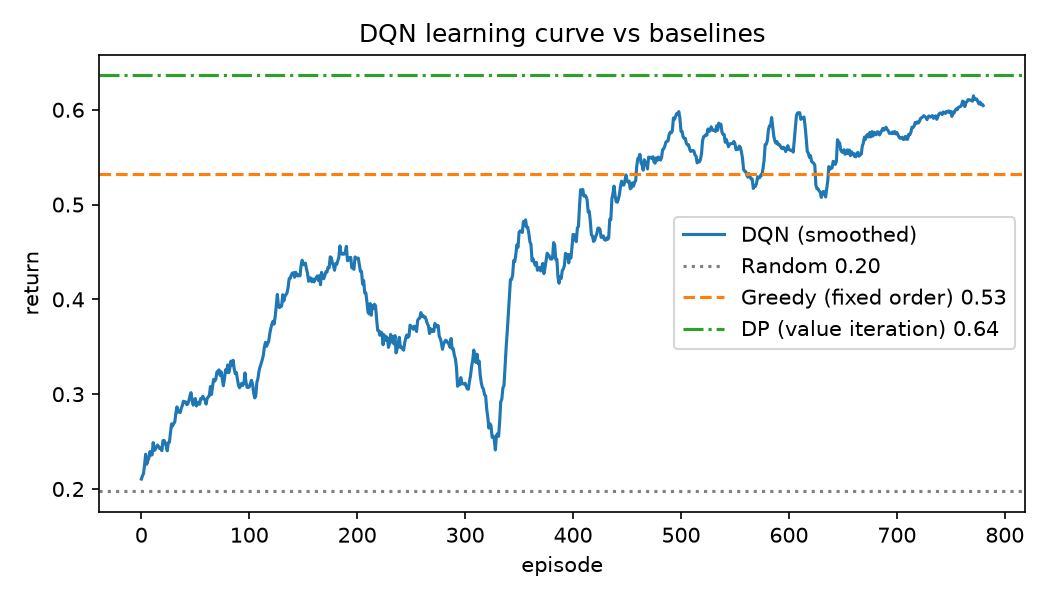
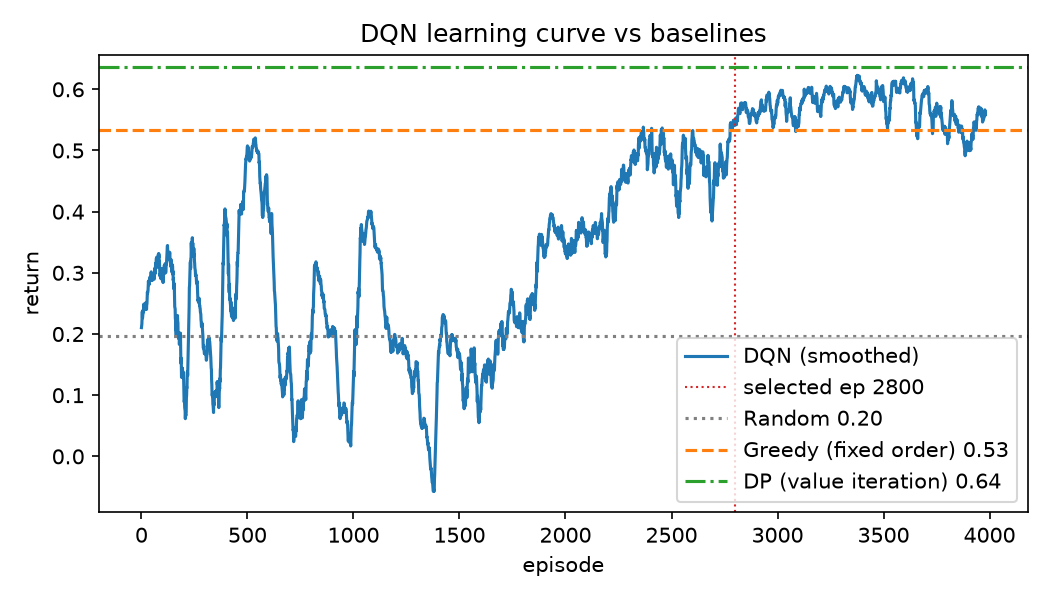
feat(ml): checkpoint-selected 4000-episode DQN PoC results

diff --git a/src/backend/ml/reports/dqn_poc.md b/src/backend/ml/reports/dqn_poc.md
@@ -1,17 +1,20 @@
 # DQN PoC — four-policy comparison on ToyLearnerEnv
 
 Protocol: `docs/learning-path-optimization.md` §7 — 100 eval episodes, seed 123,
-identical dynamics for all policies. DQN: 800 training episodes,
-eps 1.0 -> 0.05 over 400. DP: k=11 grid (11^5 = 161,051 states),
+identical dynamics for all policies. DQN: 4000 training episodes,
+eps 1.0 -> 0.05 over 400; checkpoint selection — greedy eval
+(20 episodes, validation seed 42, never the test seed) every
+100 episodes, best network kept (selected at episode 2800).
+DP: k=11 grid (11^5 = 161,051 states),
 multilinear-interpolated successors (Kushner-Dupuis), goal bonus on arrival
 in the goal set, gamma = 0.98, tol 1e-6 (offline cost includes building the
 transition table).
 
 | Policy | Mean return | Mean episode length | Goal-reach rate | Offline cost (s) | Latency (ms/decision) |
 |---|---|---|---|---|---|
-| DP (value iteration) | 0.636 | 60.0 | 0.00 | 50.2 | 0.149 |
-| DQN | 0.581 | 60.0 | 0.00 | 82.3 | 0.071 |
-| Greedy (fixed order) | 0.533 | 60.0 | 0.00 | 0.0 | 0.002 |
+| DP (value iteration) | 0.636 | 60.0 | 0.00 | 53.3 | 0.142 |
+| DQN | 0.588 | 60.0 | 0.00 | 466.2 | 0.067 |
+| Greedy (fixed order) | 0.533 | 60.0 | 0.00 | 0.0 | 0.003 |
 | Random | 0.197 | 60.0 | 0.00 | 0.0 | 0.002 |
 
 Notes:
@@ -32,6 +35,7 @@ Notes:
   chain — hence the interpolated model; see lingoroad_ml/rl/dp.py.
 - The a-priori expectation (task file) that a fixed-order heuristic is
   near-optimal on a 5-skill chain did not survive measurement under forgetting:
-  DQN beats greedy by +0.048 (+9%) and DP by +0.103 (+19%) mean return. The
-  gaps quantify what optimising marginal gain buys over a fixed order — the
-  'do chinh xac' (accuracy) column of doc §6, measured.
+  DQN beats greedy by +0.056 (+10%) and DP by
+  +0.104 (+19%) mean return. The gaps quantify what
+  optimising marginal gain buys over a fixed order — the 'do chinh xac'
+  (accuracy) column of doc §6, measured.